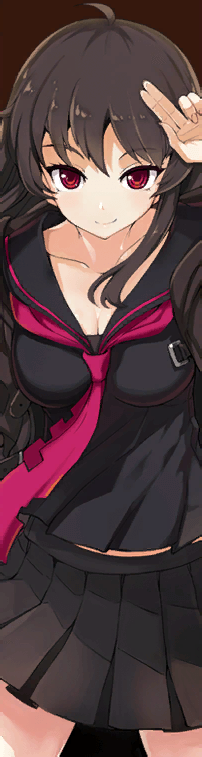
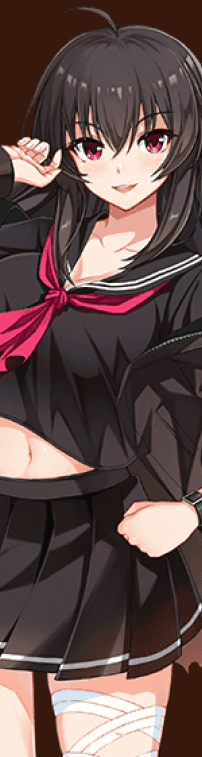
read CHANGELOG.md

diff --git a/docs/assets/css/home.styles.css b/docs/assets/css/home.styles.css
@@ -72,7 +72,7 @@ body {
     opacity: 1 !important;
     border: 2px solid #f6b318;
     /*border: 2px solid rgba(246, 181, 24);*/
-    /* cursor: pointer; */
+    /* cursor: pointer;*/
 }
 
 .characterimage {
@@ -83,6 +83,28 @@ body {
     border: 2px solid #f6b31800;
 }
 
+/* .characterimage {
+    height: 99%;
+    -webkit-clip-path: polygon(25% 0, 75% 0, 50% 100%, 0% 100%);
+    clip-path: polygon(25% 0, 75% 0, 50% 100%, 0% 100%);
+    transition: all .1s ease-in-out;
+    opacity: 0.75 !important;
+}
+
+
+
+.characterimage:hover {
+    height: 100%;
+    -webkit-clip-path: polygon(25% 0, 75% 0, 50% 100%, 0% 100%);
+    clip-path: polygon(25% 0, 75% 0, 50% 100%, 0% 100%);
+    opacity: 1 !important;
+}
+
+.col-md-1 {
+    position: inherit;
+
+}
+ */
 .hideaway {
     display: none;
     width: 0px;

diff --git a/CHANGELOG.md b/CHANGELOG.md
@@ -1,5 +1,6 @@
 # 07.June.2022
 - Changed the look of the Skill Slot Assignment to match ingame's look (I never realized it like that)
+- Updated the Character Selection Banners for [Stella](https://eden333.github.io/swskillsimu/Stella), [Jin](https://eden333.github.io/swskillsimu/Jin) & [Iris](https://eden333.github.io/swskillsimu/Iris) (Thanks to Myleia ❤)
 
 # 02.June.2022
 - Added [Jin's](https://eden333.github.io/swskillsimu/Jin) Lvl 72 Skill Damage numbers for level 1
